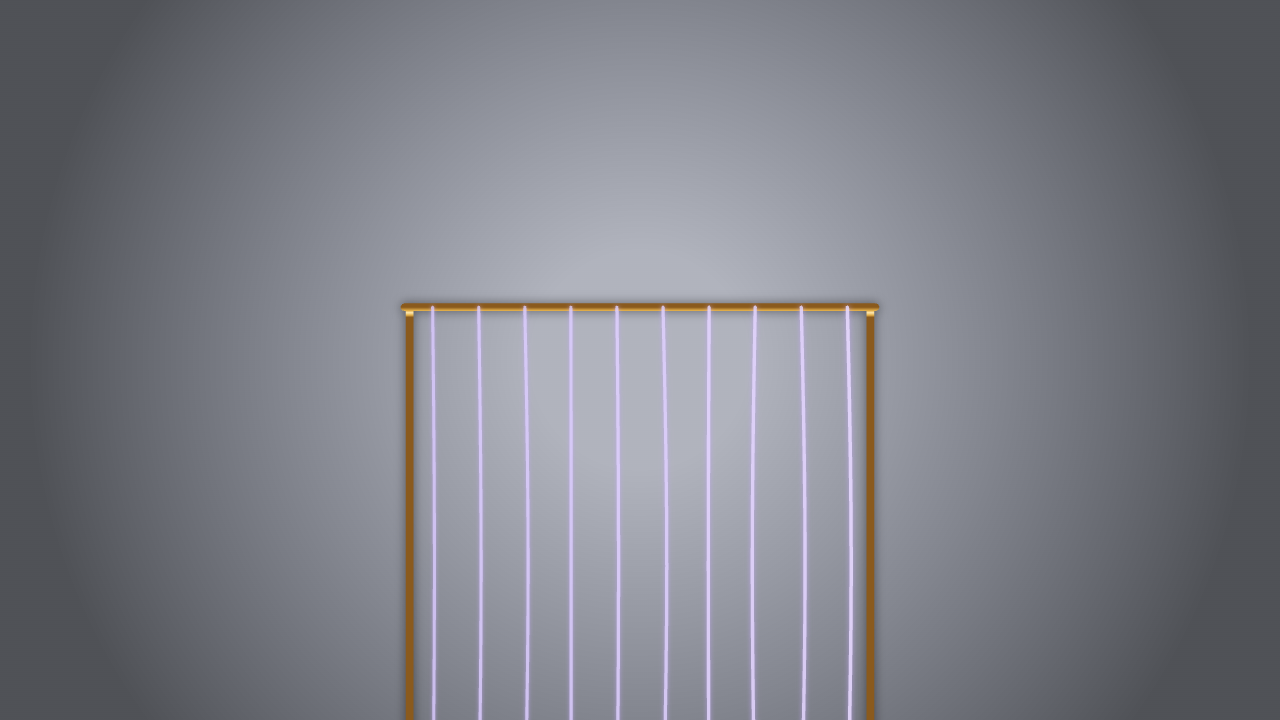
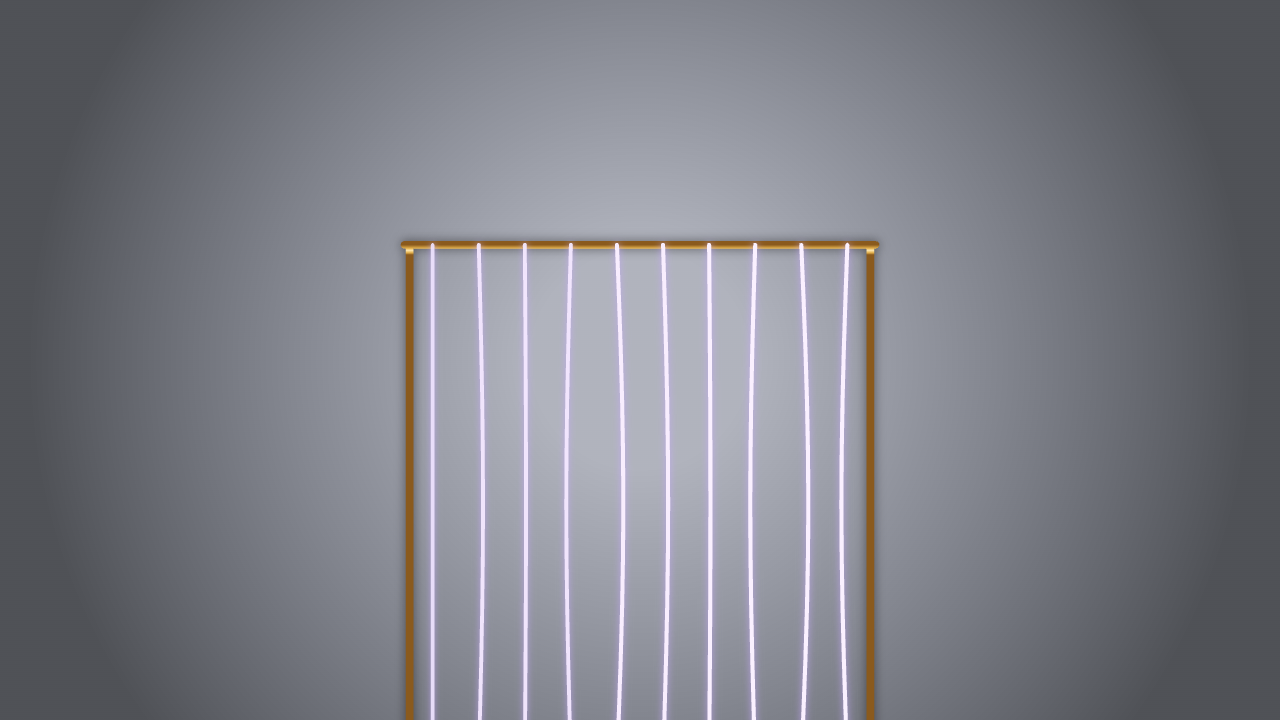
Raise the harp so its top bar sits right at the chin
topY offset from the mouth anchor: 1.1 -> 0.45 eye-widths.

Changed region(s): [[0.3125, 0.3056, 0.6875, 1.0], [0.3125, 0.5806, 0.3438, 1.0]]

diff --git a/src/main.js b/src/main.js
@@ -627,7 +627,7 @@ function updateHarp(frame, now) {
   harpLastT = now;
 
   const cx = mouth.x;
-  const topY = mouth.y + eyePx * 1.1;
+  const topY = mouth.y + eyePx * 0.45; // right at the chin
   const width = eyePx * HARP_WIDTH_EYE;
   const height = eyePx * HARP_HEIGHT_EYE;
   const xs = Array.from({ length: HARP_STRINGS }, (_, i) =>
